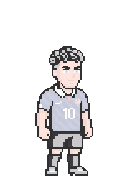
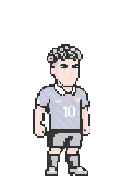
Replace the review page with the Mastered transformation head sync candidate

Changed region(s): [[0.25, 0.2188, 0.75, 0.8438]]

diff --git a/index.html b/index.html
@@ -1,4 +1,4 @@
-<title>Mastered UI Head Sync Fix</title>
+<title>Mastered Transformation Head Sync</title>
 <style>
 :root{color-scheme:dark light;--bg:#0f0f14;--panel:#1a1a21;--line:#2c2c36;
  --ink:#eef0f6;--dim:#9aa0ad;--gold:#e8b544;--accent:#a9d6ff}
@@ -8,8 +8,6 @@ body{background:var(--bg);color:var(--ink);margin:0;padding:44px 30px 90px;
 h1{color:var(--gold);font-size:29px;line-height:1.25;margin:0 0 8px;
  letter-spacing:-.015em;text-wrap:balance}
 h2{font-size:20px;color:var(--gold);margin:0 0 4px;letter-spacing:-.01em}
-h3{font-size:12px;color:var(--dim);margin:28px 0 10px;text-transform:uppercase;
- letter-spacing:.11em;font-weight:600}
 .sub{color:var(--accent);font-size:12.5px;margin:0 0 16px}
 .sha{color:var(--dim);font-size:13px;margin:0 0 4px;font-variant-numeric:tabular-nums}
 code{background:var(--panel);border:1px solid var(--line);border-radius:4px;
@@ -25,48 +23,39 @@ img{image-rendering:pixelated;display:block;border-radius:4px;max-width:100%;hei
 .scroll img{max-width:none}
 .lead{max-width:74ch;color:var(--dim);margin:22px 0 0}
 </style>
-<h1>Current Review — Mastered UI Head Sync Fix</h1>
-<p class="sha">Commit <code>d47327f</code></p>
-<p class="lead">Mastered's head now follows Sign's trajectory frame for frame, anchored
-on the face rather than on the hair. Hair, face, ears and jaw move as one assembly, and
-the transformation's last frame is byte-identical to idle frame 0 — no pop at the
-handoff. Hair build, hairline, silver tone, silver brows and the aura are unchanged.</p>
+<h1>Current Review — Mastered Transformation Head Sync</h1>
+<p class="sha">Commit <code>3642ada</code></p>
+<p class="lead">Frame 13 was jumping the whole head two pixels up and back: the shell
+revealed the canonical pose while the settling frames began at a different one. The
+shell now forms over the pose the lead ends on and breaks off the pose the settling
+begins on, so the head is continuous across the effect. The idle is untouched.</p>
 
 <section>
-<h2>Head, neck and shoulders — all 17 transformation frames</h2>
-<p class="sub">12&times; &mdash; hair, forehead, eyes, ears, jaw, neck and shoulders</p>
-<div class="row scroll"><figure><img src="v4/seq/headsync/head_strip_12x.png"
-alt="head strip"><figcaption>Sign phase, white engulf, shell break, Mastered reveal,
-settling. The head stays attached to the neck throughout.</figcaption></figure></div>
+<h2>Head, neck and shoulders — all 17 frames</h2>
+<p class="sub">13&times; &mdash; hair, forehead, eyes, ears, jaw, neck, collar, shoulders</p>
+<div class="row scroll"><figure><img src="v4/seq/diag/head_strip_13x.png" alt="head strip">
+<figcaption>Frames 10&ndash;13 now share one jaw and collar geometry; where they do
+change, jaw and collar move together, which is the body breathing rather than the head
+coming loose.</figcaption></figure></div>
 </section>
 
 <section>
-<h2>Onion skin — consecutive frames</h2>
-<p class="sub">14&times; &mdash; previous frame dimmed beneath the current one, frames 12&ndash;16</p>
-<div class="row scroll"><figure><img src="v4/seq/headsync/onion_head_14x.png"
-alt="onion skin"><figcaption>These are the settling frames, where the mismatch was
-worst. Hair and face move together rather than sliding against one another.</figcaption>
-</figure></div>
-</section>
-
-<section>
-<h2>UI Sign &rarr; Mastered UI</h2>
+<h2>UI Sign &rarr; Mastered Ultra Instinct</h2>
 <div class="row">
 <figure><img src="v4/seq/ui_sign_to_mastered_ui/ui_sign_to_mastered_ui_composite.gif"
-width="256" alt="transformation"><figcaption>Normal speed &mdash; 17 frames</figcaption></figure>
-<figure><img src="v4/seq/ui_sign_to_mastered_ui/ui_sign_to_mastered_ui_composite_slow.gif"
-width="256" alt="transformation slow"><figcaption>Slow</figcaption></figure>
+width="256" alt="normal speed"><figcaption>Normal speed</figcaption></figure>
+<figure><img src="v4/seq/diag/ui_sign_to_mastered_ui_2fps.gif" width="256"
+alt="2 fps"><figcaption>2 fps diagnostic</figcaption></figure>
+<figure><img src="v4/seq/diag/ui_sign_to_mastered_ui_1fps.gif" width="256"
+alt="1 fps"><figcaption>1 fps diagnostic &mdash; every frame held a full second</figcaption></figure>
 </div>
 </section>
 
 <section>
-<h2>Mastered Ultra Instinct — idle</h2>
+<h2>Mastered idle — unchanged</h2>
+<p class="sub">Byte-identical to the approved version; shown only as confirmation</p>
 <div class="row">
-<figure><img src="v4/seq/mastered_ui_idle/mastered_ui_idle_composite.gif" width="256"
+<figure><img src="v4/seq/mastered_ui_idle/mastered_ui_idle_composite.gif" width="220"
 alt="idle"><figcaption>Normal speed</figcaption></figure>
-<figure><img src="v4/seq/mastered_ui_idle/mastered_ui_idle_composite_slow.gif" width="256"
-alt="idle slow"><figcaption>Slow</figcaption></figure>
-<figure><img src="v4/seq/mastered_ui_idle/mastered_ui_idle_body.gif" width="256"
-alt="body only"><figcaption>Body only</figcaption></figure>
 </div>
 </section>
